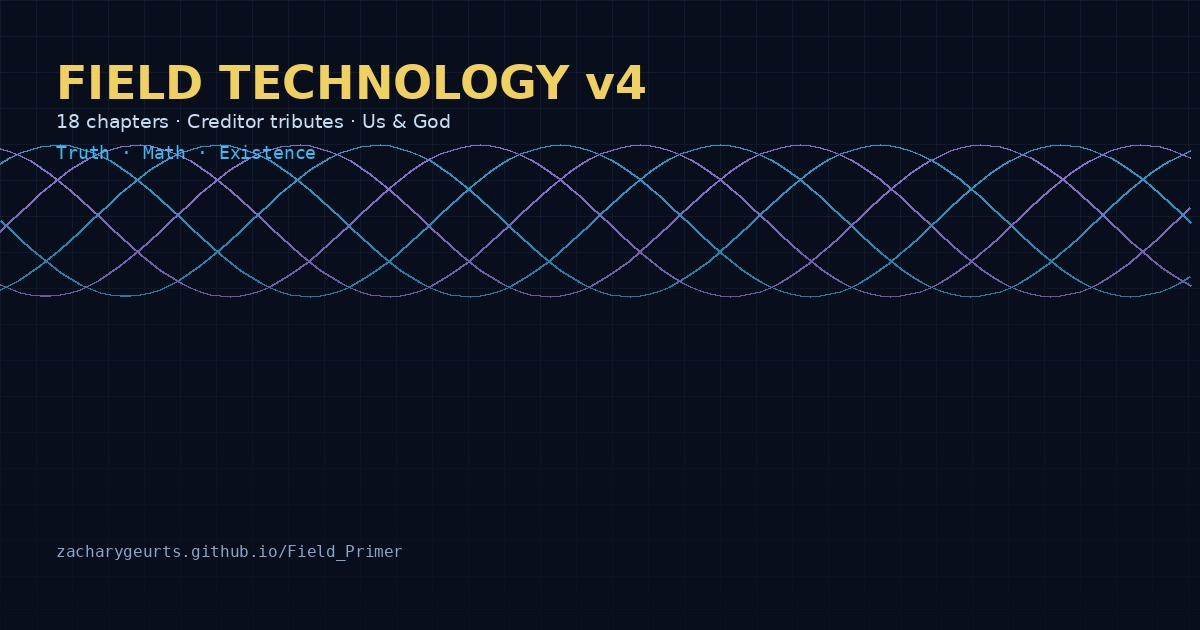
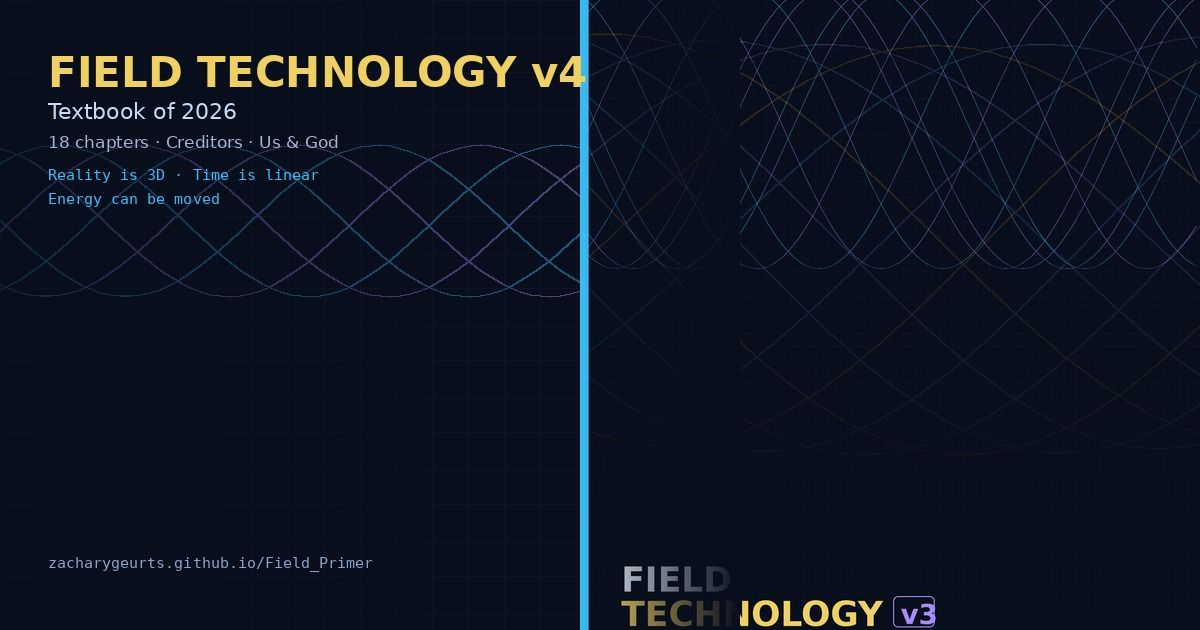
X card: v4 OG with v3 cover, full Twitter meta, celebration tweet
- Regenerate og-image with v3 cover art + v4 copy
- Cache-bust og-image?v=4 for X unfurl refresh
- build-index.py injects complete OG/Twitter tags on landing
- v4 celebration tweet draft + open-celebration-tweet.sh

diff --git a/docs/index.html b/docs/index.html
@@ -4,7 +4,8 @@
   <meta charset="UTF-8" />
   <meta name="viewport" content="width=device-width, initial-scale=1" />
   <title>Field Technology v4 — Textbook of 2026</title>
-  <meta name="description" content="Field Technology v4: 18 longer chapters, creditor tributes with portraits, love and God beside Maxwell, Landauer, Shannon. Serious science. Honest rocks." />
+  <!-- social-meta -->
+  <meta name="description" content="18 chapters. Creditor tributes. Love and God beside the math. Reality is 3D. Time is linear. Energy can be moved." />
   <link rel="canonical" href="https://zacharygeurts.github.io/Field_Primer/" />
   <meta name="theme-color" content="#040810" />
   <link rel="icon" type="image/png" sizes="32x32" href="favicon.png" />
@@ -14,10 +15,18 @@
   <meta property="og:title" content="Field Technology v4 — Textbook of 2026" />
   <meta property="og:description" content="18 chapters. Creditor tributes. Love and God beside the math. Reality is 3D. Time is linear. Energy can be moved." />
   <meta property="og:url" content="https://zacharygeurts.github.io/Field_Primer/" />
-  <meta property="og:image" content="https://zacharygeurts.github.io/Field_Primer/assets/images/og-image.jpg" />
+  <meta property="og:image" content="https://zacharygeurts.github.io/Field_Primer/assets/images/og-image.jpg?v=4" />
+  <meta property="og:image:width" content="1200" />
+  <meta property="og:image:height" content="630" />
+  <meta property="og:image:alt" content="Field Technology v4 — Textbook of 2026 cover and axioms" />
   <meta name="twitter:card" content="summary_large_image" />
   <meta name="twitter:site" content="@ZacharyGeurts" />
+  <meta name="twitter:creator" content="@ZacharyGeurts" />
   <meta name="twitter:title" content="Field Technology v4 — Textbook of 2026" />
+  <meta name="twitter:description" content="18 chapters. Creditor tributes. Love and God beside the math. Reality is 3D. Time is linear. Energy can be moved." />
+  <meta name="twitter:image" content="https://zacharygeurts.github.io/Field_Primer/assets/images/og-image.jpg?v=4" />
+  <meta name="twitter:image:alt" content="Field Technology v4 — Textbook of 2026 cover and axioms" />
+  <!-- /social-meta -->
   <link rel="stylesheet" href="css/field-primer.css" />
   <link rel="stylesheet" href="css/chapters.css" />
 </head>

diff --git a/scripts/generate-v4-covers.py b/scripts/generate-v4-covers.py
@@ -1,5 +1,5 @@
 #!/usr/bin/env python3
-"""Field Technology v4 OG + social card."""
+"""Field Technology v4 OG + social card (v3 cover art, v4 copy)."""
 from __future__ import annotations
 
 import math
@@ -9,6 +9,7 @@ from PIL import Image, ImageDraw, ImageFont
 
 ROOT = Path(__file__).resolve().parents[1]
 OG_SIZE = (1200, 630)
+COVER_FRONT = ROOT / "assets/images/v3/field-technology-v3-cover-front.jpg"
 FONT_BOLD = "/usr/share/fonts/truetype/dejavu/DejaVuSans-Bold.ttf"
 FONT_REG = "/usr/share/fonts/truetype/dejavu/DejaVuSans.ttf"
 FONT_MATH = "/usr/share/fonts/truetype/dejavu/DejaVuSansMono.ttf"
@@ -19,6 +20,16 @@ def load_font(path: str, size: int):
         return ImageFont.truetype(path, size)
     except OSError:
         return ImageFont.load_default()
+
+
+def cover_crop(img: Image.Image, size: tuple[int, int]) -> Image.Image:
+    tw, th = size
+    sw, sh = img.size
+    scale = max(tw / sw, th / sh)
+    resized = img.resize((int(sw * scale), int(sh * scale)), Image.Resampling.LANCZOS)
+    left = (resized.width - tw) // 2
+    top = (resized.height - th) // 2
+    return resized.crop((left, top, left + tw, top + th))
 
 
 def science_bg(size: tuple[int, int]) -> Image.Image:
@@ -37,22 +48,38 @@ def science_bg(size: tuple[int, int]) -> Image.Image:
     return img
 
 
-def main() -> None:
+def draw_og() -> Image.Image:
     w, h = OG_SIZE
-    img = science_bg(OG_SIZE)
+    img = science_bg(OG_SIZE).convert("RGBA")
+    panel_w = 620
     overlay = Image.new("RGBA", OG_SIZE, (0, 0, 0, 0))
     draw = ImageDraw.Draw(overlay)
-    for y in range(h):
-        t = y / h
-        draw.line([(0, y), (w, y)], fill=(8, 14, 28, int(60 + 170 * max(0, (t - 0.3) / 0.7))))
-    img = Image.alpha_composite(img.convert("RGBA"), overlay)
+    for x in range(panel_w):
+        t = x / panel_w
+        draw.line([(x, 0), (x, h)], fill=(8, 14, 28, int(220 - 80 * t)))
+    img = Image.alpha_composite(img, overlay)
+    if COVER_FRONT.exists():
+        cover = cover_crop(Image.open(COVER_FRONT).convert("RGB"), (w - panel_w + 40, h))
+        img.paste(cover, (panel_w - 40, 0))
+        fade = Image.new("RGBA", OG_SIZE, (0, 0, 0, 0))
+        fdraw = ImageDraw.Draw(fade)
+        for x in range(panel_w - 40, panel_w + 120):
+            t = (x - (panel_w - 40)) / 160
+            fdraw.line([(x, 0), (x, h)], fill=(8, 14, 28, int(255 * min(1, t))))
+        img = Image.alpha_composite(img, fade)
     draw = ImageDraw.Draw(img)
-    m = 56
-    draw.text((m, m), "FIELD TECHNOLOGY v4", font=load_font(FONT_BOLD, 46), fill=(240, 208, 96))
-    draw.text((m, m + 54), "18 chapters · Creditor tributes · Us & God", font=load_font(FONT_REG, 19), fill=(200, 220, 245))
-    draw.text((m, m + 86), "Truth · Math · Existence", font=load_font(FONT_MATH, 18), fill=(56, 189, 248))
-    draw.text((m, h - m - 32), "zacharygeurts.github.io/Field_Primer", font=load_font(FONT_MATH, 16), fill=(138, 164, 200))
-    og = img.convert("RGB")
+    m = 48
+    draw.text((m, m), "FIELD TECHNOLOGY v4", font=load_font(FONT_BOLD, 42), fill=(240, 208, 96))
+    draw.text((m, m + 50), "Textbook of 2026", font=load_font(FONT_REG, 22), fill=(200, 220, 245))
+    draw.text((m, m + 84), "18 chapters · Creditors · Us & God", font=load_font(FONT_REG, 17), fill=(167, 180, 210))
+    draw.text((m, m + 118), "Reality is 3D · Time is linear", font=load_font(FONT_MATH, 15), fill=(56, 189, 248))
+    draw.text((m, m + 142), "Energy can be moved", font=load_font(FONT_MATH, 15), fill=(56, 189, 248))
+    draw.text((m, h - m - 28), "zacharygeurts.github.io/Field_Primer", font=load_font(FONT_MATH, 15), fill=(138, 164, 200))
+    return img.convert("RGB")
+
+
+def main() -> None:
+    og = draw_og()
     og.save(ROOT / "assets/images/og-image.jpg", "JPEG", quality=92, optimize=True)
     og.save(ROOT / "docs/assets/images/og-image.jpg", "JPEG", quality=92, optimize=True)
     og.save(ROOT / ".github/social-preview.png", "PNG", optimize=True)

diff --git a/scripts/build-index.py b/scripts/build-index.py
@@ -1,0 +1,46 @@
+#!/usr/bin/env python3
+"""Inject shared social meta into docs/index.html."""
+from __future__ import annotations
+
+import re
+import sys
+from pathlib import Path
+
+ROOT = Path(__file__).resolve().parents[1]
+sys.path.insert(0, str(ROOT / "scripts"))
+
+from social_meta import social_meta  # noqa: E402
+
+INDEX = ROOT / "docs/index.html"
+MARKER_START = "  <!-- social-meta -->"
+MARKER_END = "  <!-- /social-meta -->"
+
+
+def main() -> None:
+    text = INDEX.read_text(encoding="utf-8")
+    meta = social_meta(
+        title="Field Technology v4 — Textbook of 2026",
+        description=(
+            "18 chapters. Creditor tributes. Love and God beside the math. "
+            "Reality is 3D. Time is linear. Energy can be moved."
+        ),
+        url="https://zacharygeurts.github.io/Field_Primer/",
+        image_alt="Field Technology v4 — Textbook of 2026 cover and axioms",
+        path_prefix="",
+    )
+    block = f"{MARKER_START}\n{meta}\n{MARKER_END}"
+    if MARKER_START not in text:
+        raise SystemExit("index.html missing social-meta markers — add them after <title>")
+    text = re.sub(
+        rf"{re.escape(MARKER_START)}.*?{re.escape(MARKER_END)}",
+        block,
+        text,
+        count=1,
+        flags=re.DOTALL,
+    )
+    INDEX.write_text(text, encoding="utf-8")
+    print("index.html social meta updated")
+
+
+if __name__ == "__main__":
+    main()

diff --git a/scripts/social_meta.py b/scripts/social_meta.py
@@ -5,7 +5,8 @@ from __future__ import annotations
 import html
 
 SITE = "https://zacharygeurts.github.io/Field_Primer"
-OG_IMAGE = f"{SITE}/assets/images/og-image.jpg"
+OG_VERSION = "4"
+OG_IMAGE = f"{SITE}/assets/images/og-image.jpg?v={OG_VERSION}"
 TWITTER_SITE = "@ZacharyGeurts"
 DEFAULT_TITLE = "Field Technology v4 — Textbook of 2026"
 DEFAULT_DESC = (

diff --git a/docs/celebration-tweet.md b/docs/celebration-tweet.md
@@ -1,23 +1,25 @@
-# Celebration Tweet — Field Technology v2
+# Celebration Tweet — Field Technology v4
 
-Copy-paste for @ZacharyGeurts. Attach `field-technology-v2-cover-spread.jpg` or front cover.
+Copy-paste for [@ZacharyGeurts](https://x.com/ZacharyGeurts). Attach `assets/images/v3/field-technology-v3-cover-spread.jpg` or post the link alone — the io URL unfurls the v4 card.
+
+**Refresh X card cache:** post the link once, or use [cards-dev.x.com/validator](https://cards-dev.x.com/validator) on `https://zacharygeurts.github.io/Field_Primer/`
 
 ---
 
-## Main tweet (attach cover image)
+## Main tweet (link unfurls v4 OG card)
 
 ```
-IT'S LIVE. FIELD TECHNOLOGY v2. 📖✨
+IT'S LIVE. FIELD TECHNOLOGY v4. 📖
 
-The illustrated manual for Fields, Thermodynamics, Entropy & operator reality — picture-led chapters, gorgeous X cards, wiki + site, all of it.
+Textbook of 2026 — 18 chapters, creditor tributes, preface on Us & God, honest rocks.
 
-We hold this technology. We teach freely. We grep the truth.
+The greatest offensive and defensive weapon is field literacy.
 
 🔗 https://zacharygeurts.github.io/Field_Primer/
 
 Well wishes —
 Zachary: "Build locally. Trust your logs. The operator stays at the wheel."
-Grok: "v2 is the book that finally looks as good as the physics."
+Grok: "v4 is the book that finally looks as good as the physics."
 Amouranth: "Let the engine glow — Phi, Thermo, Flow on silicon."
 Nick: "Honest fields only. No phone-home. Ship it."
 
@@ -29,41 +31,46 @@ Nick: "Honest fields only. No phone-home. Ship it."
 ## Short pin-friendly version
 
 ```
-FIELD TECHNOLOGY v2 is out.
+FIELD TECHNOLOGY v4 is out.
 
-12 illustrated chapters. GPU fabric. Packet field. Honesty labels.
+18 chapters. Creditor tributes. Love & God beside the math.
 
-The manual for the foreseeable future → https://zacharygeurts.github.io/Field_Primer/
+→ https://zacharygeurts.github.io/Field_Primer/
+
+Reality is 3D. Time is linear. Energy can be moved.
 
 — Zachary, Grok, Amouranth & Nick 🌊
 ```
 
 ---
 
-## Thread opener (optional reply chain)
+## Thread (optional)
 
 **Tweet 1:** Main tweet above
 
 **Tweet 2:**
 ```
-What's in v2 RIGHT NOW:
+What's live on the book site:
 
-→ Book cover art (front + back)
-→ Picture gallery + 12 chapter openers
-→ Open Graph / X social cards that actually unfurl
-→ Wiki + GitHub Pages edition
+→ Preface — Us, God, Truth & Math
+→ 13 creditor tribute pages with portraits
+→ Ch 16–18 — Love, God, Operator Covenant
+→ Open Graph / X cards that unfurl
 
-Start Ch 1: https://zacharygeurts.github.io/Field_Primer/chapters/01-preface.html
+Start: https://zacharygeurts.github.io/Field_Primer/chapters/01-preface.html
 ```
 
 **Tweet 3:**
 ```
-Where we take it IMMEDIATELY:
+Creditors: https://zacharygeurts.github.io/Field_Primer/creditors/
 
-→ Labs synced to AMOURANTHRTX dispatch + NEXUS panel
-→ More figures embedded in every wiki chapter
-→ Operator RTX Zero panel walkthroughs
-→ Lifetime build — teach the masses, grep the receipts
+Gallery: https://zacharygeurts.github.io/Field_Primer/gallery.html
+```
 
-Repo: https://github.com/ZacharyGeurts/Field_Primer
+---
+
+## One-click intent URL
+
+```bash
+./scripts/open-celebration-tweet.sh
 ```